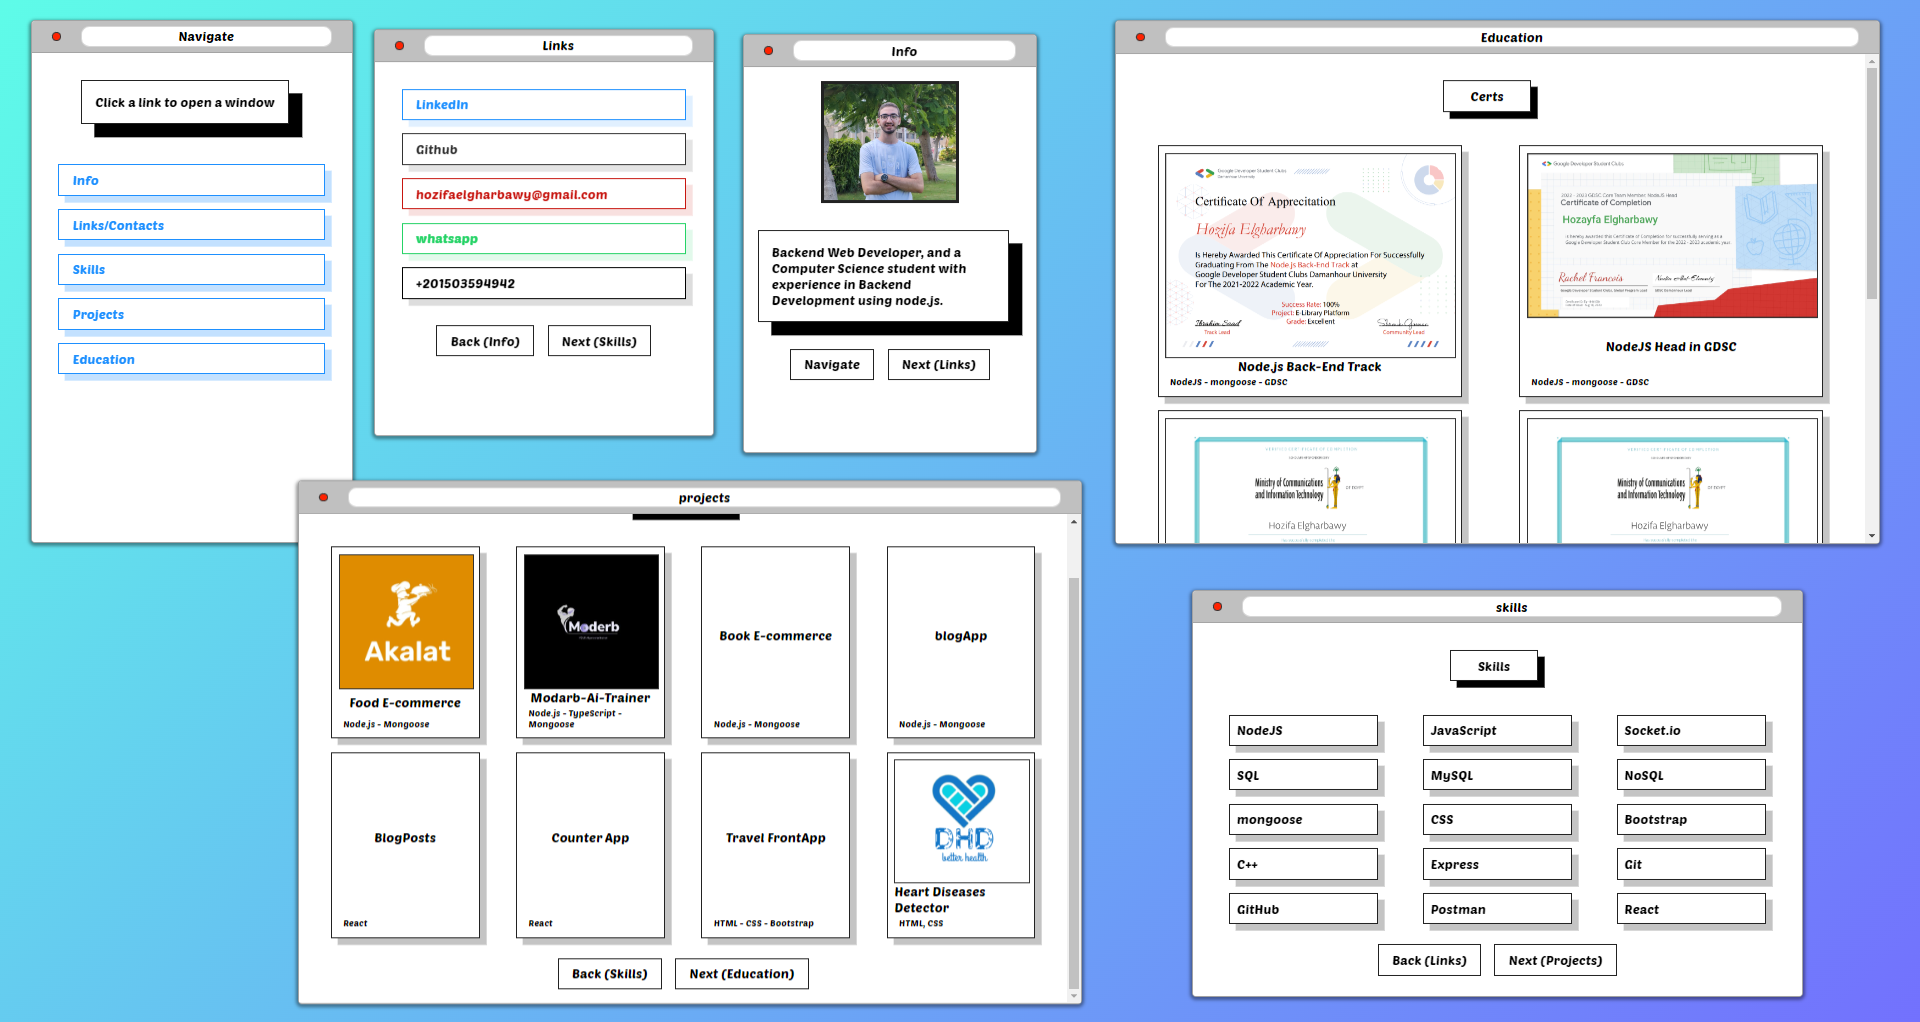
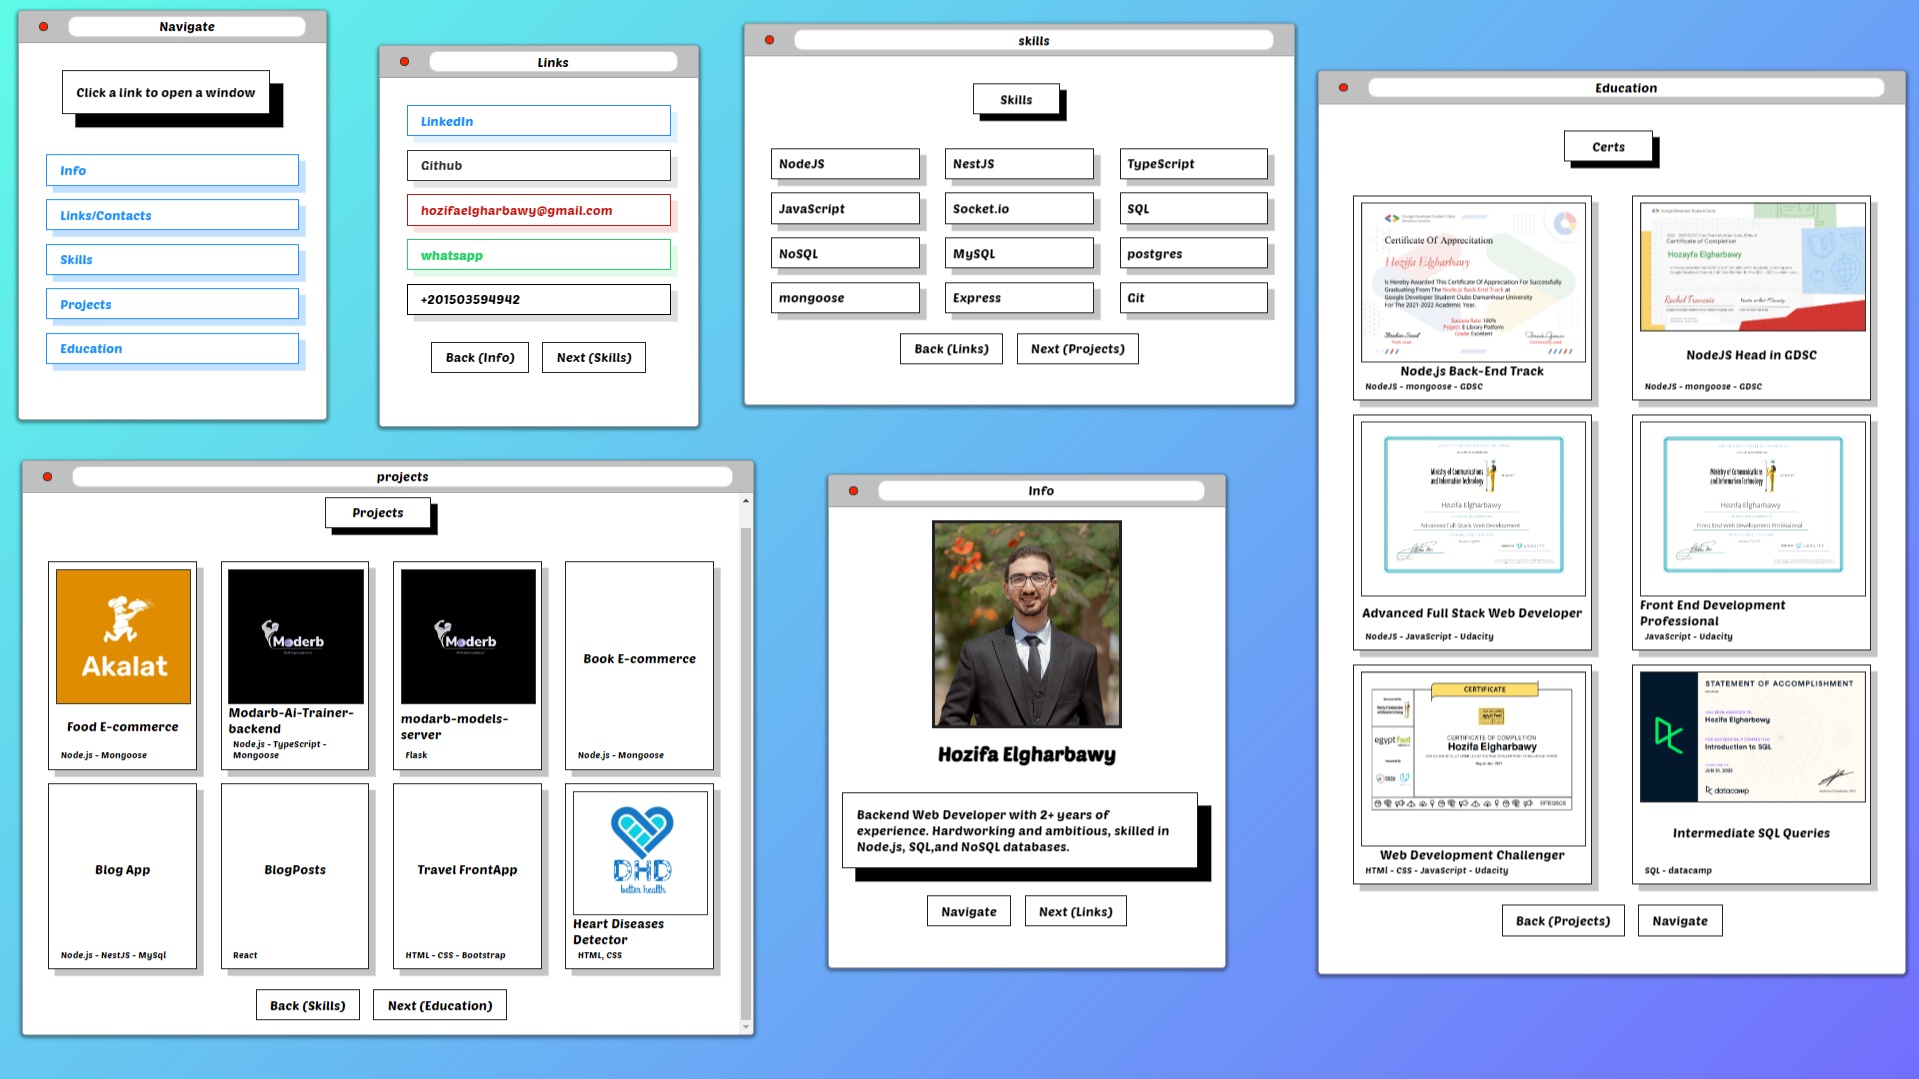
update

diff --git a/src/const.js b/src/const.js
@@ -1,11 +1,12 @@
 export const INFO = {
     pic: 'Hozifa.jpg',
-    about: 'Backend Web Developer, and a Computer Science student with experience in Backend Development using node.js.'
+    name: 'Hozifa Elgharbawy',
+    about: 'Backend Web Developer with 2+ years of experience. Hardworking and ambitious, skilled in Node.js, SQL,and NoSQL databases.'
 }
 
 
 export const LINKS = [
-    { title: 'LinkedIn', href: 'https://eg.linkedin.com/in/hozifa-elgharbawy-%F0%9F%87%B5%F0%9F%87%B8-4bb1451ba', brd: '#1e90ff', sdw: '#1e90ff22' },
+    { title: 'LinkedIn', href: 'https://www.linkedin.com/in/hozifa-elgharbawy', brd: '#1e90ff', sdw: '#1e90ff22' },
     { title: 'Github', href: 'https://github.com/Hozifaelgharbawy', brd: '#333', sdw: '#3332' },
     { title: 'hozifaelgharbawy@gmail.com', href: 'mailto: hozifaelgharbawy@gmail.com', brd: '#C71610', sdw: '#C7161022' },
     { title: 'whatsapp', href: 'https://wa.me/201025081821', brd: '#25d366', sdw: '#25d36622' },
@@ -14,18 +15,17 @@ export const LINKS = [
 
 
 export const SKILLS = [
-    'NodeJS', 'JavaScript', 'Socket.io', 'SQL', 'MySQL', 'NoSQL', 'mongoose', 'CSS', 'Bootstrap',
-    'C++', 'Express', 'Git', 'GitHub', 'Postman', 'React'
+    'NodeJS', 'NestJS', 'TypeScript', 'JavaScript', 'Socket.io', 'SQL', 'NoSQL', 'MySQL', 'postgres', 'mongoose', 'Express', 'Git'
 ]
 
 
 export const PROJECTS = [
     { tag: 'Node.js - Mongoose', title: 'Food E-commerce', img: 'Akalat.jpg', link: 'https://github.com/Hozifaelgharbawy/Akalat', },
-    { tag: 'Node.js - TypeScript - Mongoose', title: 'Modarb-Ai-Trainer', img: 'Modarb.jpeg', link: 'https://github.com/Modarb-Ai-Trainer/modarb-backend', },
+    { tag: 'Node.js - TypeScript - Mongoose', title: 'Modarb-Ai-Trainer-backend', img: 'Modarb.jpeg', link: 'https://github.com/Hozifaelgharbawy/modarb-backend', },
+    { tag: 'Flask', title: 'modarb-models-server', img: 'Modarb.jpeg', link: 'https://github.com/Hozifaelgharbawy/modarb-models-server'},
     { tag: 'Node.js - Mongoose', title: 'Book E-commerce', img: null, link: 'https://github.com/Hozifaelgharbawy/e-Books', },
-    { tag: 'Node.js - Mongoose', title: 'blogApp', img: null, link: 'https://github.com/Hozifaelgharbawy/blogApp', },
+    { tag: 'Node.js - NestJS - MySql', title: 'Blog App', img: null, link: 'https://github.com/Hozifaelgharbawy/blog-app-NestJs', },
     { tag: 'React', title: 'BlogPosts', img: null, link: 'https://github.com/Hozifaelgharbawy/BlogPosts-React', },
-    { tag: 'React', title: 'Counter App', img: null, link: 'https://github.com/Hozifaelgharbawy/Counter-App', },
     { tag: 'HTML - CSS - Bootstrap', title: 'Travel FrontApp', img: null, link: 'https://github.com/Hozifaelgharbawy/Travel-frontApp', },
     { tag: 'HTML, CSS', title: 'Heart Diseases Detector', img: 'DHD.png', link: 'https://github.com/Hozifaelgharbawy/DHD', },
 ]

diff --git a/src/windows/Info.js b/src/windows/Info.js
@@ -22,6 +22,14 @@ export default function Info({ show, handelClose, buttons: { handelNext, handelN
             }} src={INFO.pic} alt="profile pic" />
 
             <p style={{
+                fontSize: '1.5em',
+                fontWeight: 'bold',
+                textAlign: 'center',
+                margin: '0',
+                padding: '0'
+            }}>{INFO.name}</p>
+
+            <p style={{
                 border: '2px solid #222',
                 padding: '1em',
                 boxShadow: '1em 1em #000',
